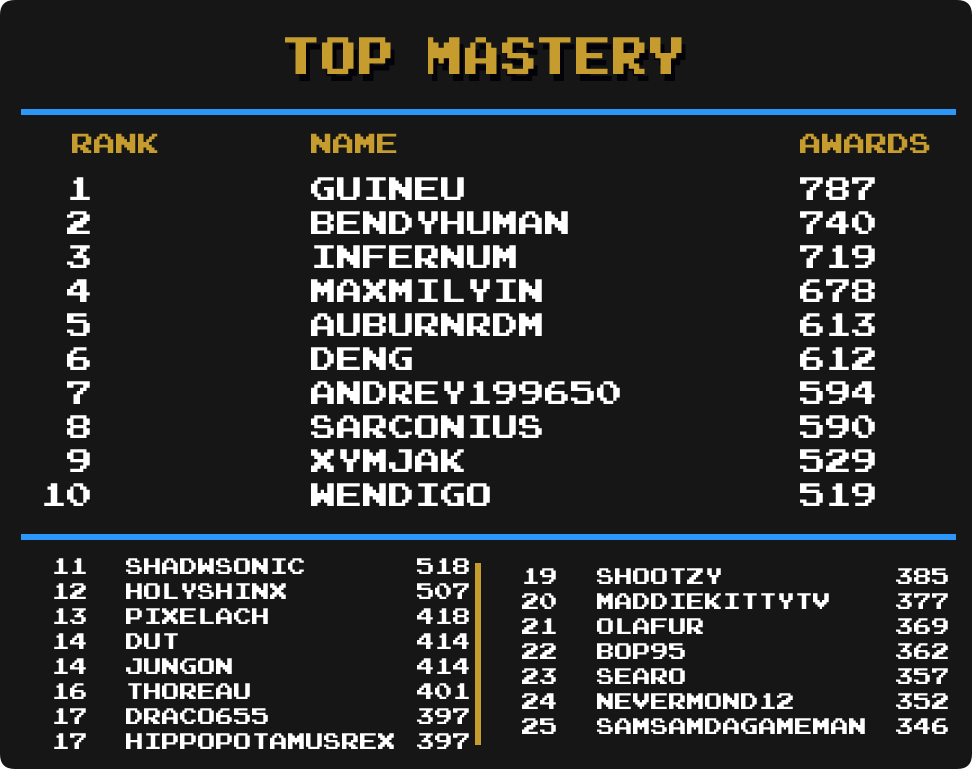
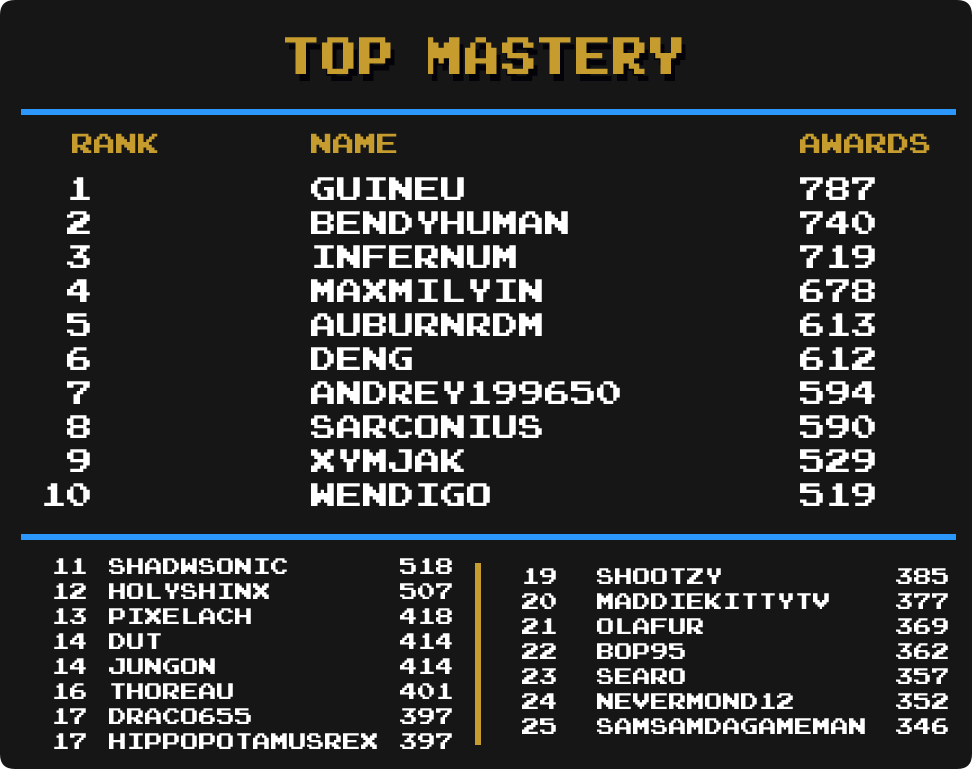
Added bullet points to Top Mastery, image tweaks, typos fixed.

Changed region(s): [[0.0926, 0.7178, 0.4938, 0.9987]]

diff --git a/_issues/2022-08/top-masteries.md b/_issues/2022-08/top-masteries.md
@@ -116,27 +116,35 @@ Special thanks to {% rauserpic Nydaxn %} for creating the ranking image template
 <p align="center">
   <img src="img/TopMasteries/TOP_MASTERY.png" />
 </p>
-
+- {% rauserpic guineu %} remains in first with 787 total mastery awards.
+- {% rauserpic Infernum %} has moved into 3rd place with 61 new mastery awards this month.
+- {% rauserpic AuburnRDM %} has moved up 3 places into 5th place with 66 new mastery awards this month.
 
 ### Total Awards (Excluding Hacks)
 
 <p align="center">
   <img src="img/TopMasteries/TOP_MASTERY_NO_HACKS.png" />
 </p>
-
+- {% rauserpic guineu %} remains in first with 766 total mastery awards.
+- {% rauserpic NickGoat1990 %} has made it into the top 25 and is tied in 23rd place.
 
 ### Events
 
 <p align="center">
   <img src="img/TopMasteries/EVENTS.png" />
 </p>
-
+- {% rauserpic televandalist %} remains in 1st place with 28 total master awards.
+- {% rauserpic wolfman2000 %} has made it into the top 25 and is in a 5-way tie for 17th place.
+- {% rauserpic msdmario %} has made it into the top 25 and is tied in 22nd place.
 
 ### Amstrad CPC
 
 <p align="center">
   <img src="img/TopMasteries/AMSTRAD_CPC.png" />
 </p>
+- {% rauserpic roukanumachi %} remain in 1st with 14 total mastery awards.
+- {% rauserpic Jacobgharibian %} has made it into the top 25 and is in a 8-way tie for 10th place.
+- {% rauserpic alundra82 %} & {% rauserpic AuroraX %} have made it into the top 25 and are in a 39-way tie for 18th place.
 
 
 ### Arcade
@@ -144,20 +152,25 @@ Special thanks to {% rauserpic Nydaxn %} for creating the ranking image template
 <p align="center">
   <img src="img/TopMasteries/ARCADE.png" />
 </p>
-
+- {% rauserpic dcmpinguim %} has moved into a tie for 1st place with 17 new mastery awards this month.
+- {% rauserpic IantasGames1995 %} has moved up 5 places into a tie for 9th place.
+- {% rauserpic cgdiniz %} has made it into the top 25 and is in a 6-way tie for 25th place.
 
 ### Arduboy
 
 <p align="center">
   <img src="img/TopMasteries/ARDUBOY.png" />
 </p>
-
+- {% rauserpic bennz13 %} has taken over the top spot with 28 total mastery awards.
+- {% rauserpic guineu %}, {% rauserpic YahwehTzVaoth %} & {% rauserpic kcoconnor76 %} have all made it into the top 25.
 
 ### Atari 2600
 
 <p align="center">
   <img src="img/TopMasteries/ATARI_2600.png" />
 </p>
+- {% rauserpic PMniac %} remains in 1st with 96 total mastery awards.
+- {% rauserpic NickGoat1990 %} moves into 14th place with 37 total mastery awards.
 
 
 ### Dreamcast
@@ -165,20 +178,24 @@ Special thanks to {% rauserpic Nydaxn %} for creating the ranking image template
 <p align="center">
   <img src="img/TopMasteries/DREAMCAST.png" />
 </p>
-
+- {% rauserpic SteveHarvey %} remains in 1st with 19 total mastery awards.
+- {% rauserpic Lokomelo %}, {% rauserpic Excessiveiser %}, {% rauserpic GalacticSpear %}, {% rauserpic Pudpod %} & {% rauserpic RuanzinhoGameplays %} have all made it into the top 25.
 
 ### Fairchild Channel F
 
 <p align="center">
   <img src="img/TopMasteries/FAIRCHILD_Channel_F.png" />
 </p>
-
+- {% rauserpic AuburnRDM %}, {% rauserpic alphacrust %} & {% rauserpic Infernum %} hold the top spots. Check in next month to see if there is any change to this.
 
 ### Game Boy
 
 <p align="center">
   <img src="img/TopMasteries/GAME_BOY.png" />
 </p>
+- {% rauserpic Shootzy %} remains on top with 124 mastery awards.
+- {% rauserpic Infernum %} moves into a tie for 5th place with 57 total mastery awards.
+- {% rauserpic BOP95 %} has made it into the top 25 and is tied for 25th place.
 
 
 ### Game Boy Advance
@@ -186,6 +203,8 @@ Special thanks to {% rauserpic Nydaxn %} for creating the ranking image template
 <p align="center">
   <img src="img/TopMasteries/GAME_BOY_ADVANCE.png" />
 </p>
+- {% rauserpic bonecrusher1022 %} remains on top with 108 total mastery awards.
+- {% rauserpic Tiagoxxx %} moves into a tie for 4th place with 59 total mastery awards.
 
 
 ### Game Boy Color
@@ -193,6 +212,8 @@ Special thanks to {% rauserpic Nydaxn %} for creating the ranking image template
 <p align="center">
   <img src="img/TopMasteries/GAME_BOY_COLOR.png" />
 </p>
+- {% rauserpic pitapocket17 %} remains in 1st place with 3 new mastery awards this month
+- {% rauserpic Lonoke31 %} & {% rauserpic Retrokaiser %} have made it into the top 25 are are in a 4-way tie for 23rd place.
 
 
 ### Game Gear
@@ -200,6 +221,9 @@ Special thanks to {% rauserpic Nydaxn %} for creating the ranking image template
 <p align="center">
   <img src="img/TopMasteries/GAME_GEAR.png" />
 </p>
+- {% rauserpic Nydaxn %} remains in 1st place with 2 new mastery awards this month.
+- {% rauserpic nezzen %} has made it into the top 25 and is in a 7-way tie for 16th place.
+- {% rauserpic AuburnRDM %} has made it into the top 25 and is in a 4-way tie for 23rd place.
 
 
 ### Hack Champ
@@ -207,6 +231,8 @@ Special thanks to {% rauserpic Nydaxn %} for creating the ranking image template
 <p align="center">
   <img src="img/TopMasteries/HACKS.png" />
 </p>
+- {% rauserpic HolyShinx %} still has a commanding lead with 196 mastery awards.
+- {% rauserpic MaxMilyin %} has made it into the top 25 and is 24th place.
 
 
 ### Homebrew Champ
@@ -214,6 +240,9 @@ Special thanks to {% rauserpic Nydaxn %} for creating the ranking image template
 <p align="center">
   <img src="img/TopMasteries/HOMEBREW.png" />
 </p>
+- {% rauserpic AuburnRDM %} remains on top with 163 total mastery awards.
+- {% rauserpic NickGoat1990 %} jumps up 5 spots into a 9th place.
+- {% rauserpic NEOMAR %} has made it into the top 25 and is in a tie for 24th place.
 
 
 ### Master System
@@ -221,6 +250,10 @@ Special thanks to {% rauserpic Nydaxn %} for creating the ranking image template
 <p align="center">
   <img src="img/TopMasteries/MASTER_SYSTEM.png" />
 </p>
+- {% rauserpic Jungon %} remains in 1st place with 72 total mastery awards.
+- {% rauserpic PlagueKBR %} jumps up 2 spots into 6th place.
+- {% rauserpic NeowaveBR %} has made it into the top 25 and is in a 6-way tie for 16th place.
+- {% rauserpic Nastas %} has made it into the top 25 and is in a 6-way tie for 22nd place.
 
 
 ### Mega Drive
@@ -228,6 +261,8 @@ Special thanks to {% rauserpic Nydaxn %} for creating the ranking image template
 <p align="center">
   <img src="img/TopMasteries/MEGA_DRIVE.png" />
 </p>
+- {% rauserpic DUT %} remains in 1st place with 119 total mastery awards.
+- {% rauserpic Wendigo %} moves into 3rd place with 3 new mastery awards this month.
 
 
 ### Nintendo 64
@@ -235,6 +270,9 @@ Special thanks to {% rauserpic Nydaxn %} for creating the ranking image template
 <p align="center">
   <img src="img/TopMasteries/NINTENDO_64.png" />
 </p>
+- {% rauserpic BenTobitt %} remains in 1st place with 45 mastery awards.
+- {% rauserpic Sarconius %} moves into 4th place with 30 total mastery awards.
+- {% rauserpic starlite %} has made it into the top 25 and is in a 4-way tie for 18th place.
 
 
 ### NES
@@ -242,6 +280,8 @@ Special thanks to {% rauserpic Nydaxn %} for creating the ranking image template
 <p align="center">
   <img src="img/TopMasteries/NES.png" />
 </p>
+- {% rauserpic SanMarino %} remains in 1st place with 240 total master awards.
+- {% rauserpic Infernum %} has made it into the top 25 and is in a 3-way tie for 24th place.
 
 
 ### Nintendo DS
@@ -249,6 +289,9 @@ Special thanks to {% rauserpic Nydaxn %} for creating the ranking image template
 <p align="center">
   <img src="img/TopMasteries/NINTENDO_DS.png" />
 </p>
+- {% rauserpic Olafur %} remains in 1st place with 67 total master awards.
+- {% rauserpic Bendyhuman %} moves into 3rd place with 30 total mastery awards.
+- {% rauserpic Dennis1543 %} & {% rauserpic Suffa28 %} have made it into the top 25 and are in a 8-way tie for 15th place.
 
 
 ### PC-8000/8800
@@ -256,6 +299,9 @@ Special thanks to {% rauserpic Nydaxn %} for creating the ranking image template
 <p align="center">
   <img src="img/TopMasteries/PC-8000_8800.png" />
 </p>
+- {% rauserpic Olafur %} remains in 1st place with 10 total mastery awards.
+- {% rauserpic AuburnRDM %} moves into a tie for 2nd place with 8 total mastery awards.
+- {% rauserpic Cerlayjux %} & {% rauserpic heintsi %} have made it into the top 25 and are in a 12-way tie for 16th place.
 
 
 ### PC Engine
@@ -263,6 +309,9 @@ Special thanks to {% rauserpic Nydaxn %} for creating the ranking image template
 <p align="center">
   <img src="img/TopMasteries/PC_ENGINE.png" />
 </p>
+- {% rauserpic Infernum %} remains in the top spot with 38 mastery awards.
+- {% rauserpic MaxMilyin %} moves into a tie for 3rd place.
+- {% rauserpic BrothersGames %} has made it into the top 25 and is tied in 17th place.
 
 
 ### PlayStation
@@ -270,6 +319,9 @@ Special thanks to {% rauserpic Nydaxn %} for creating the ranking image template
 <p align="center">
   <img src="img/TopMasteries/PLAYSTATION.png" />
 </p>
+- {% rauserpic Andrey199650 %} remain in 1st with 76 total master awards. The top 3 spots tight and only separated by 2 awards.
+- {% rauserpic FBiDev %} moves into 2nd place with 9 new mastery awards this month.
+- {% rauserpic shesharino %} has made it into the top 25 and is in 25th place.
 
 
 ### PlayStation Portable
@@ -277,6 +329,10 @@ Special thanks to {% rauserpic Nydaxn %} for creating the ranking image template
 <p align="center">
   <img src="img/TopMasteries/PLAYSTATION_PORTABLE.png" />
 </p>
+- {% rauserpic minibt %} remain in 1st with 34 total mastery awards.
+
+- {% rauserpic AuburnRDM %} has made it into the top 25 and is in 6th place with 8 new mastery awards this month.
+- {% rauserpic Waishler %} moves up 11 spots into a 3-way tie for 7th place with 5 new mastery awards this month.
 
 
 ### Pokémon Mini
@@ -284,12 +340,16 @@ Special thanks to {% rauserpic Nydaxn %} for creating the ranking image template
 <p align="center">
   <img src="img/TopMasteries/POKEMON_MINI.png" />
 </p>
+- {% rauserpic Sylrifaide %} remians in the top spot having mastered all 32 sets.
+- {% rauserpic CerinianShadowGaming %} & {% rauserpic diegosel %} have made it into the top 25 and are in a 8-way tie for 23rd place.
 
 ### Sega Saturn
 
 <p align="center">
   <img src="img/TopMasteries/SEGA_SATURN.png" />
 </p>
+- {% rauserpic Orph %} remains in 1st with 15 total mastery awards.
+- {% rauserpic bennz13 %} & {% rauserpic napu %} have made it into the top 25 and are in a 9-way tie for 15th place.
 
 
 ### Sega CD
@@ -297,6 +357,9 @@ Special thanks to {% rauserpic Nydaxn %} for creating the ranking image template
 <p align="center">
   <img src="img/TopMasteries/SEGA_CD.png" />
 </p>
+- {% rauserpic Orph %} remains in 1st with 9 total mastery awards.
+- {% rauserpic dizzykei %} has made it into the top 25 and is in a 8-way tie for 4th place.
+- {% rauserpic Gneve %} has made it into the top 25 and is in a 27-way tie for 12th place.
 
 
 ### SNES
@@ -304,6 +367,8 @@ Special thanks to {% rauserpic Nydaxn %} for creating the ranking image template
 <p align="center">
   <img src="img/TopMasteries/SUPER_NINTENDO.png" />
 </p>
+- {% rauserpic danibodom %} remains in 1st with 195 total mastery awards.
+- {% rauserpic bilcassonato %} has made it into the top 25 and is tied for 25rd place.
 
 
 ### Virtual Boy
@@ -311,6 +376,8 @@ Special thanks to {% rauserpic Nydaxn %} for creating the ranking image template
 <p align="center">
   <img src="img/TopMasteries/VIRTUAL_BOY.png" />
 </p>
+- {% rauserpic Grahamtams %} & {% rauserpic Jungon %} are tied in 1st with 11 total mastery awards.
+- {% rauserpic Jacobgharibian %} & {% rauserpic Jaeger42 %} have made it into the top 25 and are in a 8-way tie for 10th place.
 
 
 ### WASM-4
@@ -318,6 +385,8 @@ Special thanks to {% rauserpic Nydaxn %} for creating the ranking image template
 <p align="center">
   <img src="img/TopMasteries/WASM-4.png" />
 </p>
+- {% rauserpic AuburnRDM %} remains in 1st place with 26 total mastery awards.
+- {% rauserpic Xinorok %}, {% rauserpic oddgoo %}, {% rauserpic TheJediSonic %} & {% rauserpic Dennis1543 %} have all made it into the top 25.
 
 
 ### Watara Supervision
@@ -325,3 +394,5 @@ Special thanks to {% rauserpic Nydaxn %} for creating the ranking image template
 <p align="center">
   <img src="img/TopMasteries/WATARA_SUPERVISION.png" />
 </p>
+- {% rauserpic Sarconius %} remains in 1st place with 42 mastery awards.
+- {% rauserpic NickGoat1990 %} has made it into the top 25 and is in a 9-way tie for 20th place.

diff --git a/_issues/2022-08/community-news.md b/_issues/2022-08/community-news.md
@@ -29,14 +29,14 @@ If you have any question(s), please reach out to {% rauser voiceofautumn %}.
   <img src="img/CommunityNews/FairchildChannelF.png" />
 </p>
 
-Support for Fairchild Channel F has been rolloed out. You can use the **FreChaF** core and earn achievmevents for the 21 [currently supported sets](https://retroachievements.org/gameList.php?c=57).
+Support for Fairchild Channel F has been rolled out. You can use the **FreChaF** core and earn achievements for the 21 [currently supported sets](https://retroachievements.org/gameList.php?c=57).
 
 ## Mega Duck
 <p align="center">
   <img src="img/CommunityNews/MegaDuck.png" />
 </p>
 
-Support for Mega Duck has been rolloed out. You can use the **SameDuck** core and earn achievmevents for the 20 [currently supported sets](https://retroachievements.org/gameList.php?c=69).
+Support for Mega Duck has been rolled out. You can use the **SameDuck** core and earn achievements for the 20 [currently supported sets](https://retroachievements.org/gameList.php?c=69).
 
 ##  PlayStation 2
 While there is no ETA on the release of PlayStation 2 support, that hasn't stopped the development team from working on sets to make the rollout the biggest yet. Take a look at the current sets that will be available on PlayStation 2 release.

diff --git a/_issues/2022-08/stats.md b/_issues/2022-08/stats.md
@@ -7,7 +7,7 @@ author: MrOwnership
 toc: true
 ---
 
-**NOTE**: _Data points used are taken from the fist of the month and therefor point values reflected are prior to the softcore point change. Updated values will be refelcted in next months issue._
+**NOTE**: _Data points used are taken from the fist of the month and therefor point values reflected are prior to the softcore point change. Updated values will be reflected in next months issue._
 
 # Intro
 Let's start off with something new. We took monthly intervals of RA Points by the current top 50 players and plotted them in this fancy [Flourish](https://flourish.studio/) graph.
@@ -18,7 +18,7 @@ Let's start off with something new. We took monthly intervals of RA Points by th
 
 The interactive version of this graph can be found [here](https://public.flourish.studio/visualisation/10845940/).
 
-In the top 50 but don't see yourself in the above graph? No worries, we have an version that displays all 50 plyers [here](https://public.flourish.studio/visualisation/10791918/). 
+In the top 50 but don't see yourself in the above graph? No worries, we have an version that displays all 50 players [here](https://public.flourish.studio/visualisation/10791918/). 
 
 # General Stats
 Check out some general stats from this month.

diff --git a/_issues/2022-08/milestones.md b/_issues/2022-08/milestones.md
@@ -7,7 +7,7 @@ author: Cadaxar
 toc: true
 ---
 
-**NOTE**: _Data points used are taken from the fist of the month and therefor point values reflected are prior to the softcore point change. Updated values will be refelcted in next months issue._
+**NOTE**: _Data points used are taken from the fist of the month and therefor point values reflected are prior to the softcore point change. Updated values will be reflected in next months issue._
 
 ## Intro
 

diff --git a/_issues/2022-07/top-masteries.md b/_issues/2022-07/top-masteries.md
@@ -191,7 +191,7 @@ Special thanks to {% rauserpic Nydaxn %} for creating the ranking image template
   <img src="img/TopMasteries/GAME_BOY_COLOR.png" />
 </p>
 - {% rauserpic pitapocket17 %} remains in 1st place with 1 new mastery awards this month
-- {% rauserpic YahwehTzVaoth %} has made it into the top 25 and is tied for 3rd place.
+- {% rauserpic YahwehTzVaoth %} has made it into the top 25 and is tied for 23rd place.
 
 ### Game Gear
 
